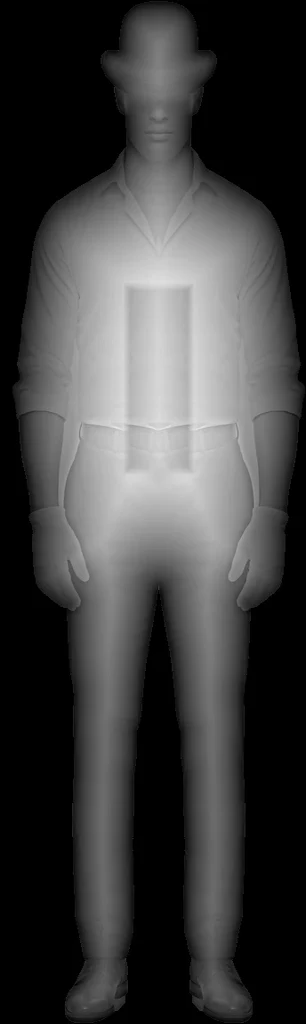
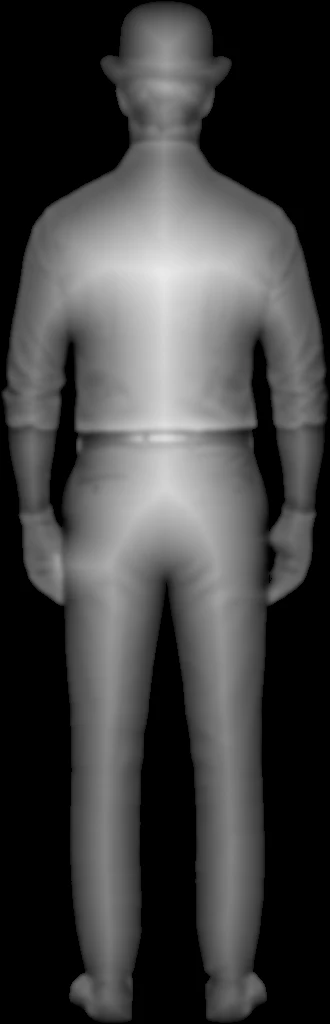
管家：換上重新生成的真背面（白襯衫兩套、不穿上衣）
Claude-Session: https://claude.ai/code/session_01WDx8kfxKbAJaSebjrSaRpx

diff --git a/index.html b/index.html
@@ -997,14 +997,15 @@ F.hots=[
       const a=g.pg.attributes.position.array;for(let q=0;q<g.N;q++){a[q*3+1]+=dt*(.4+(q%5)*.1);if(a[q*3+1]>H)a[q*3+1]=0;}g.pg.attributes.position.needsUpdate=true;});};}
 { // 超級管家：站在家門口右側。看到他就知道一切都會被打理好、收好尾
   // 好幾套穿法：點他「換一套」，記住最後選的。立體：深度圖鼓起前後兩半＋法線打光
-  const OUTFITS=[{k:'shirt-ipad',n:'白襯衫',w:344},{k:'suit-ipad',n:'西裝',w:340},{k:'bare-ipad',n:'不穿上衣',w:330},{k:'shirt',n:'白襯衫・雙手交握',w:306},{k:'suit',n:'西裝・雙手交握',w:292}];
+  const OUTFITS=[{k:'shirt-ipad',n:'白襯衫',w:344,bk:330},{k:'suit-ipad',n:'西裝',w:340},{k:'bare-ipad',n:'不穿上衣',w:330,bk:321},{k:'shirt',n:'白襯衫・雙手交握',w:306,bk:330},{k:'suit',n:'西裝・雙手交握',w:292}];   // bk：背面圖自己的寬度（10/19 重生的真背面）
   let oi=Math.max(0,OUTFITS.findIndex(o=>o.k===(localStorage.getItem('origina.butler')||'shirt-ipad')));
   const bh=2.55,tl=new R.TextureLoader(),T=u=>tl.load(u),FL=u=>{const t=tl.load(u);t.wrapS=R.RepeatWrapping;t.repeat.x=-1;t.offset.x=1;return t;};
   const body=new R.Group();
   const dress=()=>{while(body.children.length)body.remove(body.children[0]);const o=OUTFITS[oi],bw=bh*o.w/1024,base='img/butler-'+o.k;
     const g=new R.PlaneGeometry(bw,bh,72,256);g.translate(0,bh/2,0);
+    const g2=o.bk?new R.PlaneGeometry(bh*o.bk/1024,bh,72,256).translate(0,bh/2,0):g;
     [false,true].forEach(flip=>{const L=flip?FL:T,map=L(base+(flip?'-back.webp':'.webp'));
-      const m=new R.Mesh(g,new R.MeshStandardMaterial({map,normalMap:L(base+(flip?'-back-normal.webp':'-normal.webp')),displacementMap:L(base+(flip?'-back-depth.webp':'-depth.webp')),displacementScale:.3,alphaTest:.5,roughness:.6,emissive:0xFFFFFF,emissiveMap:map,emissiveIntensity:.35}));
+      const m=new R.Mesh(flip?g2:g,new R.MeshStandardMaterial({map,normalMap:L(base+(flip?'-back-normal.webp':'-normal.webp')),displacementMap:L(base+(flip?'-back-depth.webp':'-depth.webp')),displacementScale:.3,alphaTest:.5,roughness:.6,emissive:0xFFFFFF,emissiveMap:map,emissiveIntensity:.35}));
       m.castShadow=true;m.customDepthMaterial=new R.MeshDepthMaterial({depthPacking:R.RGBADepthPacking,map,alphaTest:.5});if(flip)m.rotation.y=Math.PI;m.userData.tap='butler';body.add(m);});};
   dress();
   // 救援時：站到你正前方，背對你、面向外面，右手一把槍，紅色瞄準線往前
